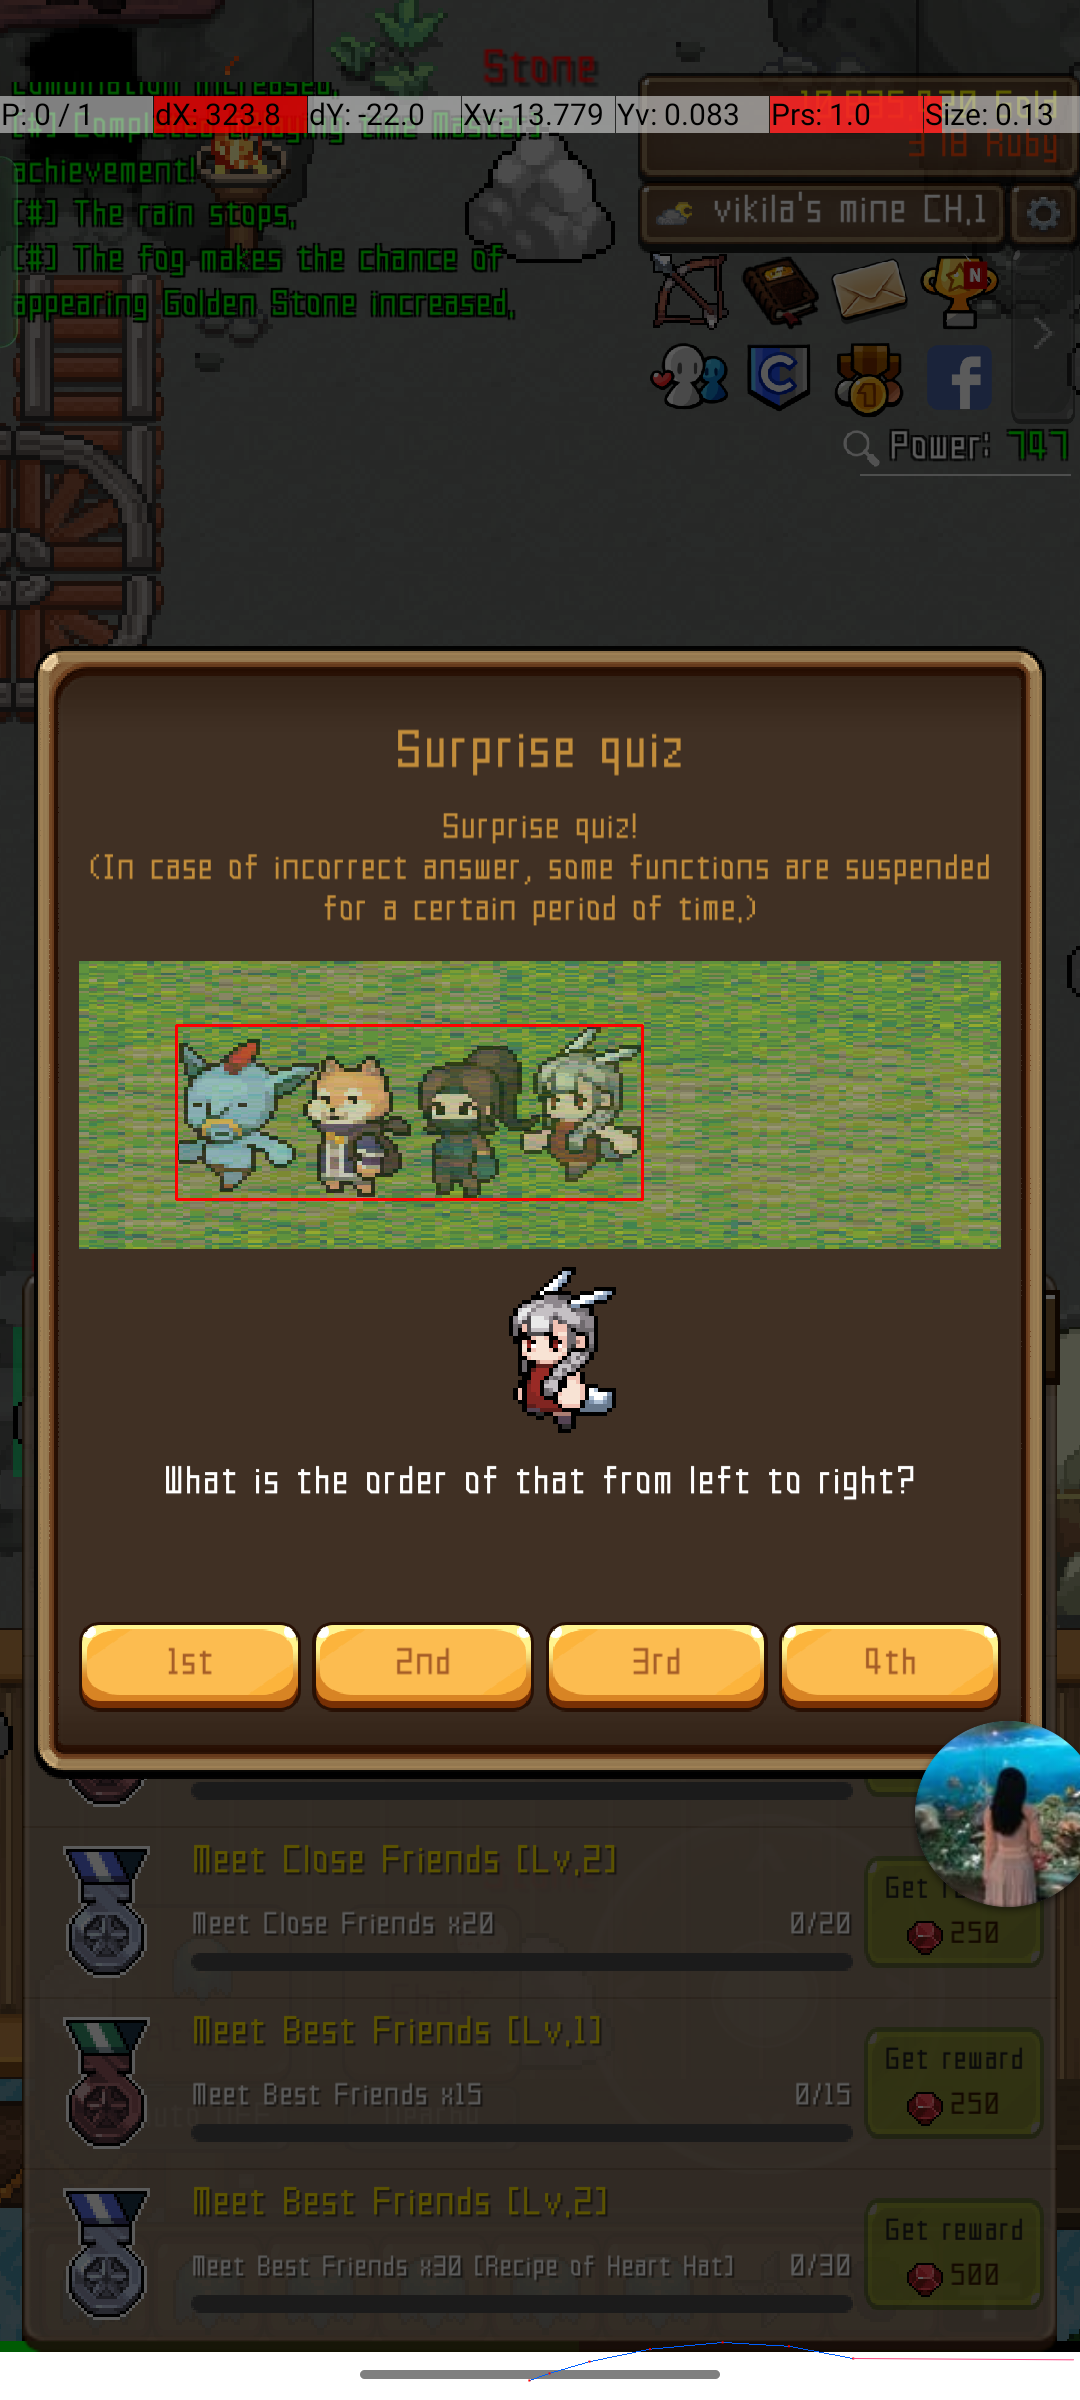
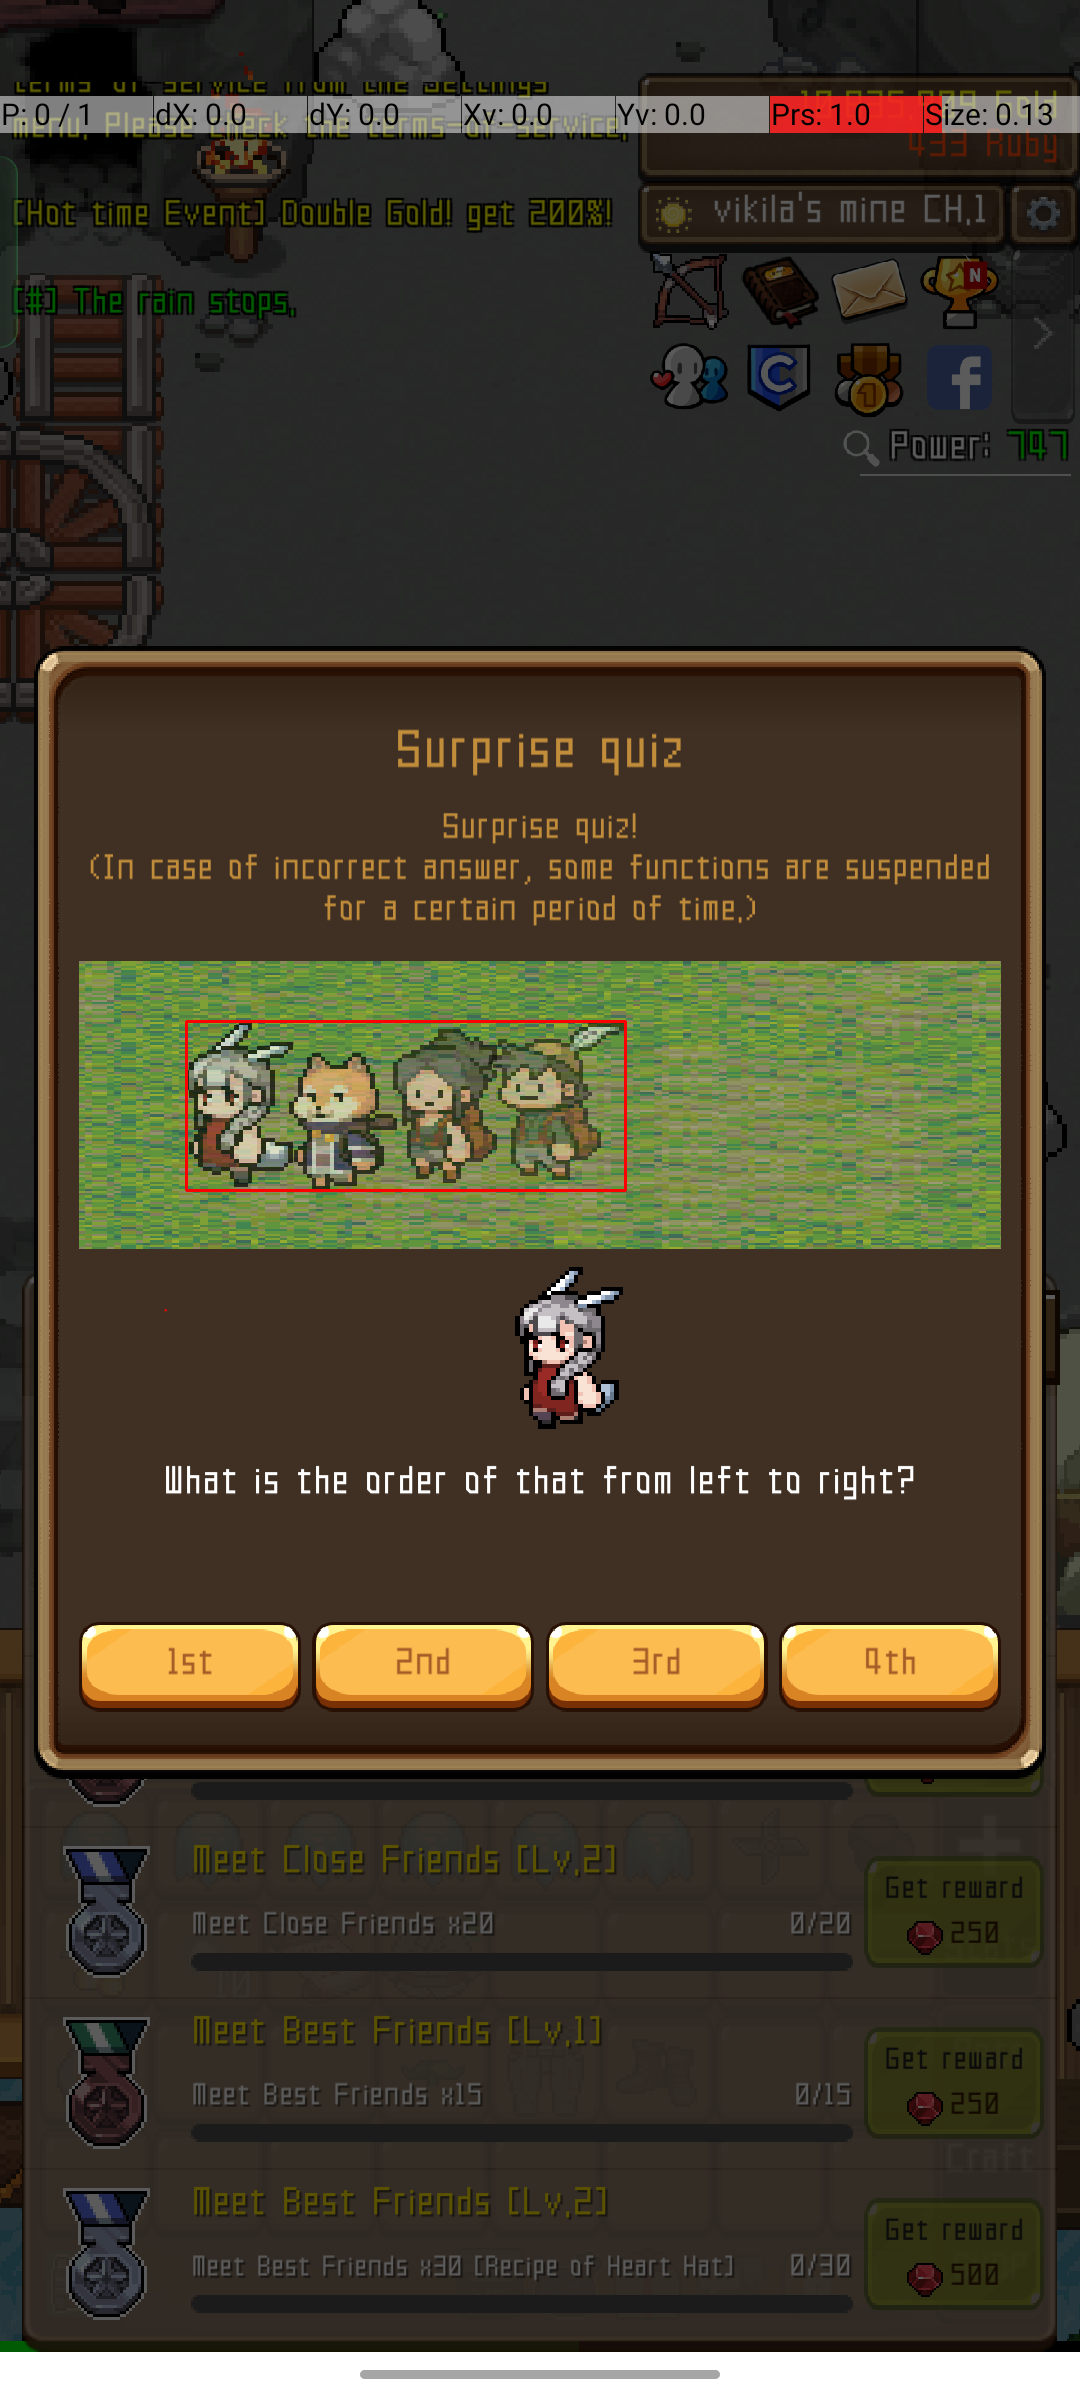
done logic capcha

diff --git a/detection_image.py b/detection_image.py
@@ -141,10 +141,10 @@ if __name__ == "__main__":
 
     # Cấu hình tham số
     SAVE_IMAGE = True  # Có lưu ảnh annotate không
-    TEMPLATE_PATH = "./growstone/quiz/faces/slim-doge1.png"
+    TEMPLATE_PATH = "./growstone/quiz/faces/slim-bhgirl1.png"
     DEVICE_ID = None  # ID thiết bị ADB nếu có nhiều thiết bị
     GRASS_ROI = (80, 960, 1000, 290)  # Vùng quan tâm (x0, y0, w, h)
-    THRESHOLD = 0.45  # Ngưỡng matchTemplate
+    THRESHOLD = 0.5  # Ngưỡng matchTemplate
     HIST_THRESHOLD = 0.0  # Ngưỡng histogram correlation
     SCALE_MIN = 1.0  # Hệ số scale nhỏ nhất
     SCALE_MAX = 10.0  # Hệ số scale lớn nhất
@@ -166,8 +166,15 @@ if __name__ == "__main__":
 
     full_img = adb_screencap(DEVICE_ID)  # Chụp screenshot
     x1_1, y1_1, x2_1, y2_1 = detect_characters_group_bbox(full_img)
+    # Khoanh đỏ
+    #cv2.rectangle(full_img, (x1_1, y1_1), (x2_1, y2_1), (0,0,255), 2)
+    #cv2.imwrite('boxed_group_precise.png', full_img)
+    #print(f"Box: top-left=({x1_1},{y1_1}), bottom-right=({x2_1},{y2_1})")
+    divided_by_four = round((x2_1 - x1_1)/ 4,1)
+    print('divided_by_four', divided_by_four)
+    
 
-   
+
     try:
         annotated, result = detect_template(
             full_img,
@@ -189,24 +196,29 @@ if __name__ == "__main__":
 
     x1, y1 = result["top_left"]
     x2, y2 = result["bottom_right"]
-    print(f"Vùng phát hiện x1_1: {x1_1}, x2_: {x2_1}")
+    print(f"Vùng phát hiện x1_1: {x1_1}, x2_2: {x2_1}")
     print(f"Vùng phát hiện x1: {x1}, x2: {x2}")
-    group_w = x2_1 - x1_1
-    tpl_w = x2 - x1
-    rel_x = (x1 - x1_1) / group_w
-    rel_w = tpl_w / group_w 
-
-    k=  x1_1 - 80
-    print(f"Vùng phát hiện k: {k}")
-
+    print(f"hist_corr", result['hist_corr'])
+    print
     
+    count =0
+ 
+
+    for i in range(4):
+        if divided_by_four*count <= x1<= divided_by_four * (count +1):
+            print("x1: ",x1)
+            print("divided_by_four", count)
+            print("divided_by_four+divided_by_four", count+1)
+            break
+        count += 1                # tăng đếm lên 1
+        
+
+
+    print('count', count)
 
 
 
-    print(f"Vùng phát hiện group_w: {group_w}")
 
-    print(f"Vùng phát hiện rel_x: {rel_w*100:.1f}%")
-    print(f"Vùng phát hiện rel_x: {rel_x*100:.1f}%")
 
     #Lưu ảnh nếu cần
     if SAVE_IMAGE and annotated is not None:
